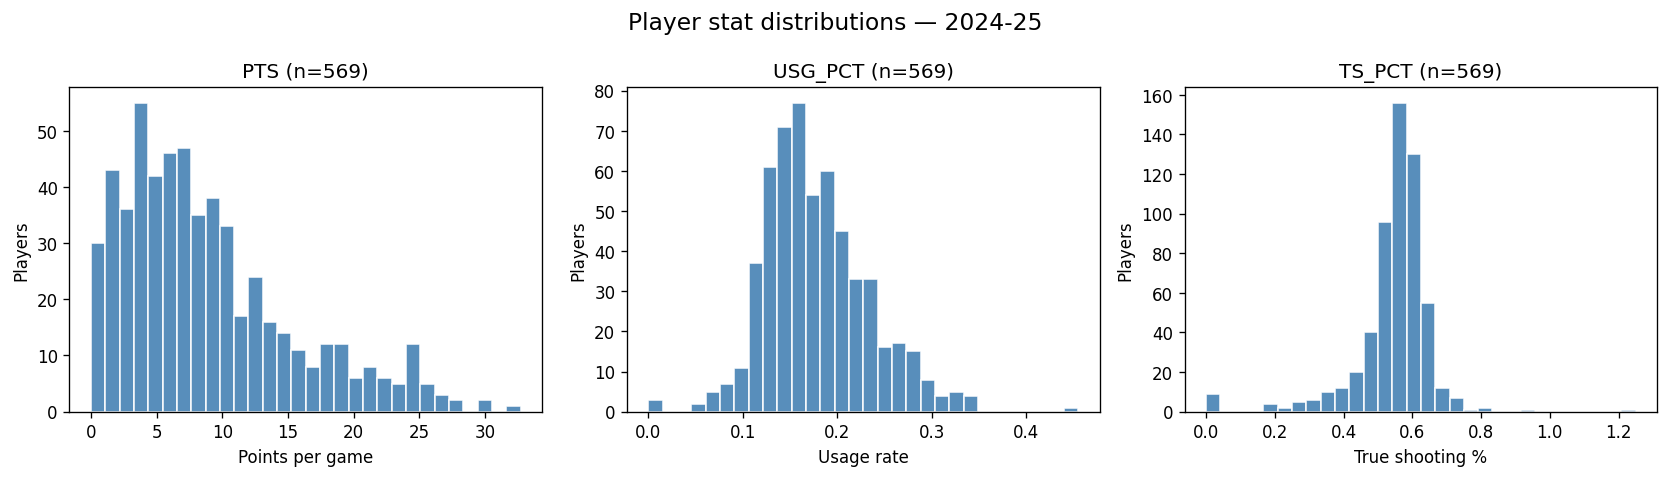
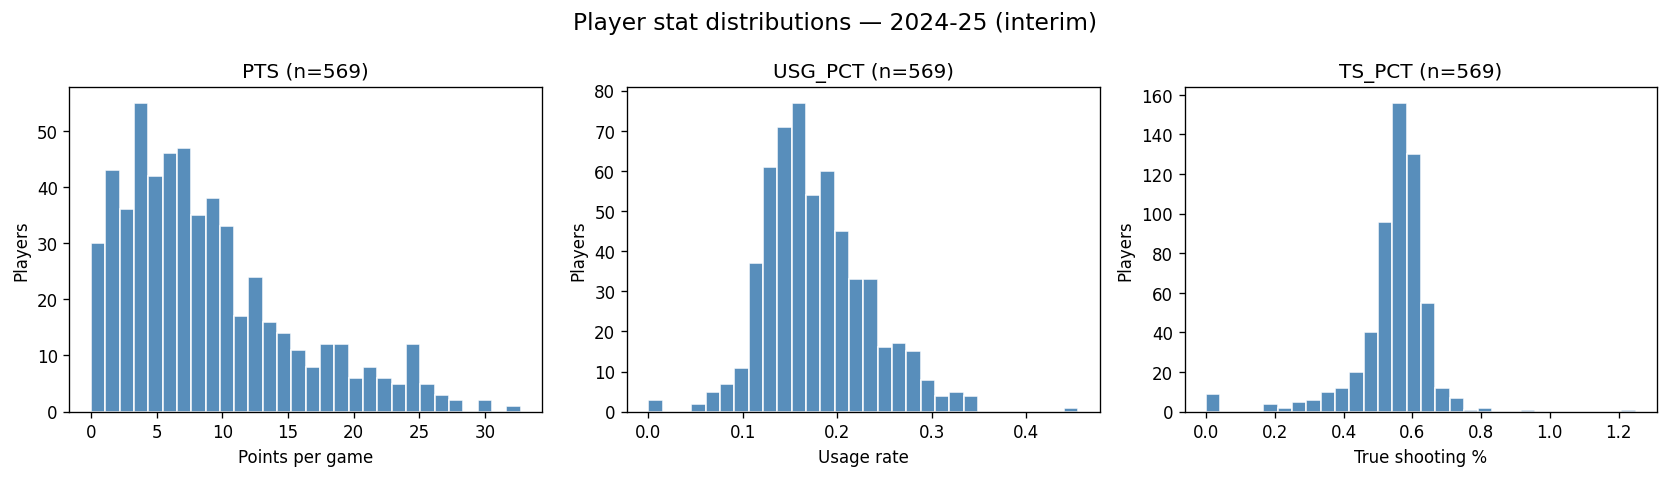
Fix Option A validation figures to use 2024-25 interim rankings.

Changed region(s): [[0.3427, 0.0293, 0.6543, 0.0879]]

diff --git a/scripts/run_option_a_validation.py b/scripts/run_option_a_validation.py
@@ -3,7 +3,9 @@
 
 from __future__ import annotations
 
+import importlib.util
 import json
+import os
 import subprocess
 import sys
 from datetime import datetime, timezone
@@ -35,6 +37,121 @@ from nba_fit.scoring.ranker import FitRanker  # noqa: E402
 
 def _utc_now() -> str:
     return datetime.now(timezone.utc).strftime("%Y-%m-%dT%H:%M:%SZ")
+
+
+def _log(msg: str, log_lines: list[str]) -> None:
+    log_lines.append(msg)
+    print(msg)
+
+
+def _load_visual_test_module(script_stem: str):
+    """Load visual_tests/NN_name.py (numeric stems are invalid as import names)."""
+    path = _REPO / "visual_tests" / f"{script_stem}.py"
+    spec = importlib.util.spec_from_file_location(f"_vt_{script_stem}", path)
+    if spec is None or spec.loader is None:
+        raise ImportError(f"Cannot load visual test module from {path}")
+    mod = importlib.util.module_from_spec(spec)
+    spec.loader.exec_module(mod)
+    return mod
+
+
+def _copy_visual_figure(src: Path, dest_name: str) -> Path | None:
+    if not src.is_file():
+        return None
+    dest = _FIGURES_OUT / dest_name
+    dest.parent.mkdir(parents=True, exist_ok=True)
+    dest.write_bytes(src.read_bytes())
+    return dest
+
+
+def _run_visual_tests(log_lines: list[str]) -> dict[str, object]:
+    """Run visual_tests 03 and 05; save PNGs under validation figures/."""
+    if str(_REPO) not in sys.path:
+        sys.path.insert(0, str(_REPO))
+    import visual_tests._constants as vt_constants  # noqa: WPS433
+    import visual_tests._plot_utils as plot_utils  # noqa: WPS433
+
+    _FIGURES_OUT.mkdir(parents=True, exist_ok=True)
+    vt_constants.FIGURES_DIR = _FIGURES_OUT
+    plot_utils.FIGURES_DIR = _FIGURES_OUT
+
+    os.environ["PRIMARY_SEASON"] = PRIMARY_SEASON
+
+    modules: list[tuple[str, str, list[str]]] = [
+        (
+            "03_player_stat_distributions",
+            "03_player_stat_distributions.png",
+            ["--season", PRIMARY_SEASON],
+        ),
+        (
+            "05_fit_score_heatmap",
+            "05_fit_score_heatmap.png",
+            ["--season", PRIMARY_SEASON, "--player-id", str(PLAYER_ID)],
+        ),
+    ]
+    results: dict[str, object] = {}
+    for script_stem, dest_name, argv in modules:
+        short = script_stem
+        _log(f"Visual test {short}...", log_lines)
+        try:
+            mod = _load_visual_test_module(script_stem)
+            rc = int(mod.main(argv))
+        except Exception as exc:  # noqa: BLE001
+            rc = 1
+            results[short] = {"exit_code": rc, "error": str(exc), "figures": []}
+            _log(f"  {short} failed: {exc}", log_lines)
+            continue
+
+        copied: list[str] = []
+        dest_flat = _FIGURES_OUT / dest_name
+        candidates = sorted(_FIGURES_OUT.rglob(f"{short}*.png"), key=lambda p: p == dest_flat)
+        for candidate in candidates:
+            if candidate.resolve() == dest_flat.resolve():
+                continue
+            rel = _copy_visual_figure(candidate, dest_name)
+            if rel is not None:
+                copied.append(str(rel.relative_to(_OUT)))
+                break
+        if not copied and dest_flat.is_file():
+            copied.append(str(dest_flat.relative_to(_OUT)))
+        if not copied:
+            for candidate in sorted((_REPO / "reports" / "figures").rglob(f"{short}*.png")):
+                rel = _copy_visual_figure(candidate, dest_name)
+                if rel is not None:
+                    copied.append(str(rel.relative_to(_OUT)))
+                    break
+        results[short] = {"exit_code": rc, "figures": copied}
+        _log(f"  {short} exit={rc} figures={len(copied)}", log_lines)
+    return results
+
+
+def _heatmap_matches_rankings(
+    ranker: FitRanker, rankings_csv: Path, *, top_n: int = 10
+) -> dict[str, object]:
+    """Confirm heatmap top teams align with saved player rankings CSV."""
+    dest = ranker.rank_destinations_for_player(PLAYER_ID, top_n=top_n)
+    if not rankings_csv.is_file() or dest.empty:
+        return {"ok": False, "reason": "missing rankings or destinations"}
+    saved = pd.read_csv(rankings_csv).head(top_n)
+    checks: list[dict[str, object]] = []
+    ok = True
+    for i in range(min(len(dest), len(saved))):
+        live = dest.iloc[i]
+        ref = saved.iloc[i]
+        team_match = str(live["team"]) == str(ref["team"])
+        pct_delta = abs(float(live["overall_fit_percentile"]) - float(ref["overall_fit_percentile"]))
+        row_ok = team_match and pct_delta < 1e-6
+        ok = ok and row_ok
+        checks.append(
+            {
+                "rank": int(live["rank"]),
+                "team": str(live["team"]),
+                "percentile": round(float(live["overall_fit_percentile"]), 4),
+                "csv_percentile": round(float(ref["overall_fit_percentile"]), 4),
+                "match": row_ok,
+            }
+        )
+    return {"ok": ok, "top_n": top_n, "checks": checks}
 
 
 def _run_pytest() -> tuple[int, str]:
@@ -220,9 +337,6 @@ def main() -> int:
             else []
         ),
     }
-    (_OUT / "metrics.json").write_text(
-        json.dumps(metrics, indent=2), encoding="utf-8"
-    )
 
     log_lines.extend(
         [
@@ -237,11 +351,36 @@ def main() -> int:
             "",
             "## Visual tests",
             "",
-            "Run separately; PNGs copied to `figures/`.",
-            "",
         ]
     )
 
+    heatmap_check = _heatmap_matches_rankings(
+        ranker, _OUT / "rankings_player_2544.csv", top_n=10
+    )
+    metrics["heatmap_rankings_check"] = heatmap_check
+
+    visual_results = _run_visual_tests(log_lines)
+    metrics["visual_tests"] = visual_results
+    for short, info in visual_results.items():
+        rc = int(info.get("exit_code", 1)) if isinstance(info, dict) else 1
+        status = "pass" if rc == 0 else "fail"
+        figs = info.get("figures", []) if isinstance(info, dict) else []
+        log_lines.append(f"- `{short}` — **{status}** (exit={rc}, figures={figs})")
+    if heatmap_check.get("ok"):
+        top = heatmap_check.get("checks", [])
+        if top:
+            first = top[0]
+            log_lines.append(
+                f"- **Heatmap vs CSV:** pass — #{first['rank']} {first['team']} "
+                f"@ {first['percentile']} percentile"
+            )
+    else:
+        log_lines.append("- **Heatmap vs CSV:** fail — top-10 teams diverge from rankings CSV")
+    log_lines.append("")
+
+    (_OUT / "metrics.json").write_text(
+        json.dumps(metrics, indent=2), encoding="utf-8"
+    )
     (_OUT / "RUN_LOG.md").write_text("\n".join(log_lines), encoding="utf-8")
 
     print(json.dumps(metrics, indent=2))

diff --git a/visual_tests/05_fit_score_heatmap.py b/visual_tests/05_fit_score_heatmap.py
@@ -1,8 +1,9 @@
 #!/usr/bin/env python3
-"""Heatmap: one player vs top-N team destinations by fit percentile."""
+"""Heatmap: one player vs top-N team destinations by fit percentile (live interim)."""
 
 from __future__ import annotations
 
+import argparse
 import sys
 from pathlib import Path
 
@@ -13,7 +14,6 @@ if str(_ROOT / "src") not in sys.path:
     sys.path.insert(0, str(_ROOT / "src"))
 
 import matplotlib.pyplot as plt
-import numpy as np
 import seaborn as sns
 
 from nba_fit.features.season_context import DEMO_PLAYER_ID, SeasonFitContext
@@ -21,14 +21,53 @@ from nba_fit.scoring.fit_index import build_fit_index_table
 from nba_fit.scoring.ranker import FitRanker
 from visual_tests._plot_utils import apply_plot_style, save_figure
 
+DEFAULT_SEASON = "2024-25"
 TOP_TEAMS = 10
 
 
-def main() -> int:
-    context = SeasonFitContext.from_synthetic("2025-26", n_players=80)
+def _parse_args(argv: list[str] | None = None) -> argparse.Namespace:
+    parser = argparse.ArgumentParser(description=__doc__)
+    parser.add_argument(
+        "--season",
+        default=DEFAULT_SEASON,
+        help="Season label for interim tables (default: 2024-25)",
+    )
+    parser.add_argument(
+        "--player-id",
+        type=int,
+        default=DEMO_PLAYER_ID,
+        help="NBA player id for destination heatmap (default: 2544)",
+    )
+    parser.add_argument(
+        "--top-teams",
+        type=int,
+        default=TOP_TEAMS,
+        help="Number of top destination teams to plot",
+    )
+    return parser.parse_args(argv)
+
+
+def main(argv: list[str] | None = None) -> int:
+    args = _parse_args(argv)
+    season = args.season
+    player_id = args.player_id
+    top_teams = args.top_teams
+
+    context = SeasonFitContext.build(
+        season,
+        prefer_interim=True,
+        prefer_api=False,
+    )
+    if context.source != "interim":
+        print(
+            f"Expected interim context for {season}; got source={context.source!r}.",
+            file=sys.stderr,
+        )
+        return 1
+
     table = build_fit_index_table(context)
     ranker = FitRanker(context=context, table=table)
-    dest = ranker.rank_destinations_for_player(DEMO_PLAYER_ID, top_n=TOP_TEAMS)
+    dest = ranker.rank_destinations_for_player(player_id, top_n=top_teams)
 
     if dest.empty:
         print("No destination rankings to plot.", file=sys.stderr)
@@ -65,7 +104,10 @@ def main() -> int:
         ax=ax,
         cbar_kws={"label": "Submetric score (0–1)"},
     )
-    ax.set_title(f"Player {DEMO_PLAYER_ID} — submetrics vs top {TOP_TEAMS} destinations")
+    ax.set_title(
+        f"Player {player_id} — submetrics vs top {top_teams} destinations "
+        f"({season} interim)"
+    )
     ax.set_xlabel("Submetric")
     ax.set_ylabel("Team")
     plt.xticks(rotation=35, ha="right")
@@ -73,6 +115,9 @@ def main() -> int:
 
     path = save_figure(fig, "05_fit_score_heatmap", subdir="fit")
     print(f"Wrote {path}")
+    for _, row in dest.iterrows():
+        pct = float(row["overall_fit_percentile"])
+        print(f"  #{int(row['rank'])} {row['team']}: {pct:.2f} percentile")
     return 0
 
 

diff --git a/visual_tests/03_player_stat_distributions.py b/visual_tests/03_player_stat_distributions.py
@@ -3,6 +3,8 @@
 
 from __future__ import annotations
 
+import argparse
+import os
 import sys
 from pathlib import Path
 
@@ -26,6 +28,31 @@ from nba_fit.data.fetchers.league_dash import fetch_league_dash, primary_frame
 from nba_fit.normalize.players import interim_players_path, load_players_table
 
 from visual_tests._plot_utils import save_figure
+
+PRIMARY_SEASON = "2024-25"
+
+
+def _resolve_season(explicit: str | None) -> str:
+    if explicit:
+        return explicit
+    env = os.environ.get("PRIMARY_SEASON", "").strip()
+    if env:
+        return env
+    if interim_players_path(PRIMARY_SEASON).exists():
+        return PRIMARY_SEASON
+    settings = get_settings()
+    return settings.default_season or DEFAULT_SEASON
+
+
+def _parse_args(argv: list[str] | None = None) -> argparse.Namespace:
+    parser = argparse.ArgumentParser(description=__doc__)
+    parser.add_argument(
+        "--season",
+        default=None,
+        help="Season for interim/live league-dash (default: PRIMARY_SEASON env, "
+        "else 2024-25 if interim exists, else project default)",
+    )
+    return parser.parse_args(argv)
 
 
 def _usage_column(df: pd.DataFrame) -> str:
@@ -52,9 +79,9 @@ def _load_player_frame(season: str) -> pd.DataFrame:
     return merged
 
 
-def main() -> int:
-    settings = get_settings()
-    season = settings.default_season or DEFAULT_SEASON
+def main(argv: list[str] | None = None) -> int:
+    args = _parse_args(argv)
+    season = _resolve_season(args.season)
     df = _load_player_frame(season)
 
     usg_col = _usage_column(df)
@@ -76,7 +103,8 @@ def main() -> int:
         ax.set_ylabel("Players")
         ax.set_title(f"{col} (n={len(series)})")
 
-    fig.suptitle(f"Player stat distributions — {season}", fontsize=14)
+    source = "interim" if interim_players_path(season).exists() else "live"
+    fig.suptitle(f"Player stat distributions — {season} ({source})", fontsize=14)
     fig.tight_layout()
     out = save_figure(fig, "03_player_stat_distributions", subdir="ingest")
     print(f"Wrote {out}")

diff --git a/reports/validation/option_a/RUN_LOG.md b/reports/validation/option_a/RUN_LOG.md
@@ -1,6 +1,6 @@
 # Option A validation run log
 
-- **Started (UTC):** 2026-05-26T20:31:44Z
+- **Started (UTC):** 2026-05-28T17:10:45Z
 - **Primary season:** 2024-25
 - **Fallback season:** 2025-26
 
@@ -28,23 +28,16 @@
 
 ```
 ...........                                                              [100%]
-11 passed in 8.04s
+11 passed in 19.27s
 ```
 - **Exit code:** 0
 
 ## Visual tests
 
-- `PYTHONPATH=<repo> python visual_tests/03_player_stat_distributions.py` (2024-25 interim via settings patch) — **pass**
-- `PYTHONPATH=<repo> python visual_tests/05_fit_score_heatmap.py` — **pass** (synthetic demo heatmap)
-- Figures saved: `figures/03_player_stat_distributions.png`, `figures/05_fit_score_heatmap.png`
-
-## Pytest (re-run for log)
-
-```
-...........                                                              [100%]
-11 passed in 8.62s
-```
-
-- **Exit code:** 0
-
-- **Finished (UTC):** 2026-05-26T20:33:00Z
+Visual test 03_player_stat_distributions...
+  03_player_stat_distributions exit=0 figures=1
+Visual test 05_fit_score_heatmap...
+  05_fit_score_heatmap exit=0 figures=1
+- `03_player_stat_distributions` — **pass** (exit=0, figures=['figures\\03_player_stat_distributions.png'])
+- `05_fit_score_heatmap` — **pass** (exit=0, figures=['figures\\05_fit_score_heatmap.png'])
+- **Heatmap vs CSV:** pass — #1 Philadelphia 76ers @ 67.6889 percentile
